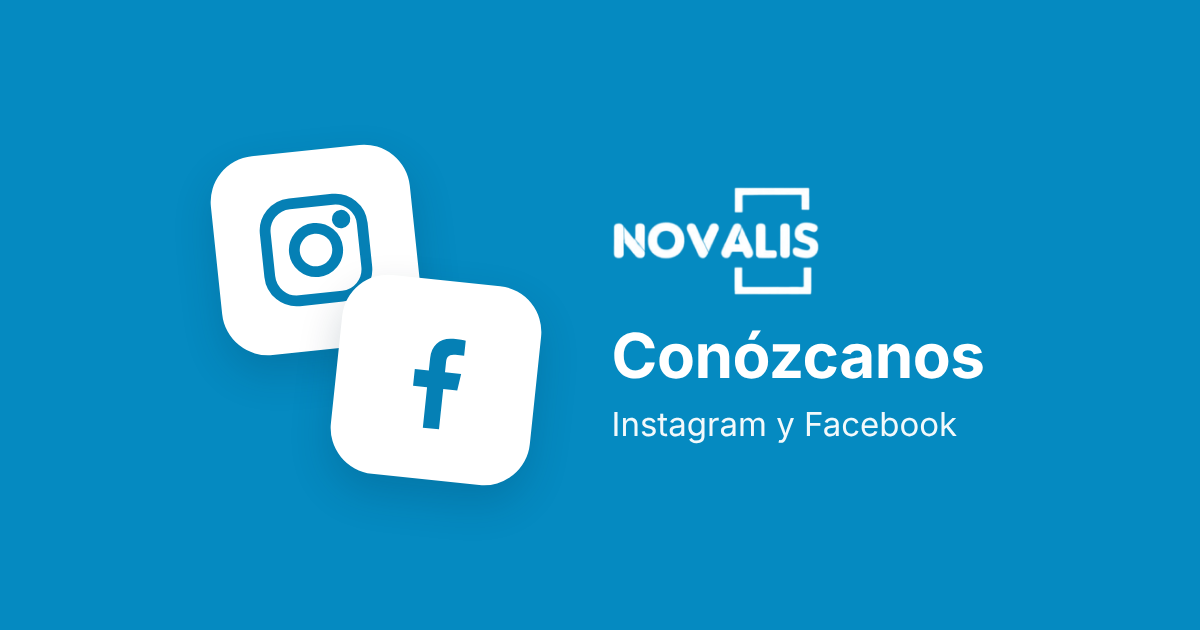
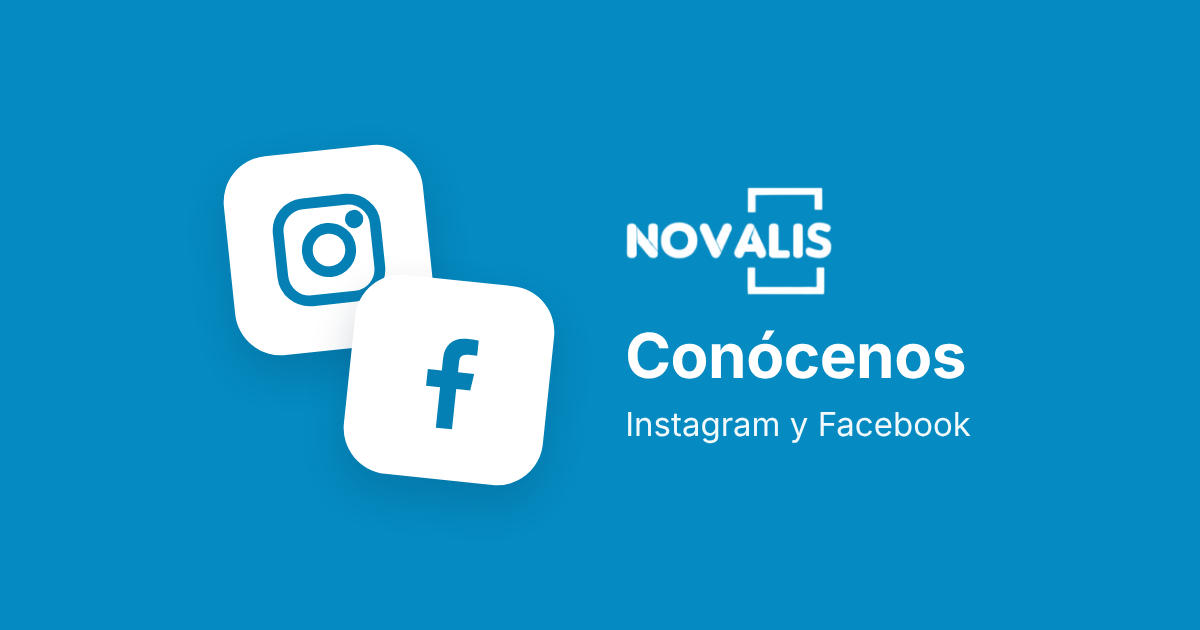
Tratar de tú al paciente en las plantillas, las páginas y las tarjetas
Claude-Session: https://claude.ai/code/session_01BkikTQCFHVfyVBujVap8CC

diff --git a/src/lib/demo.js b/src/lib/demo.js
@@ -28,10 +28,10 @@ export function datosDeEjemplo() {
       { id: id(201), paciente_id: id(6), fecha: new Date(Date.now() - 3 * 86400000).toISOString(), tipo: 'mensaje', titulo: 'Recordatorio de revisión', texto: 'Hola Javier, te escribimos de Clínica Novalis. Ya toca tu revisión semestral.', autor: 'Demostración' },
     ],
     plantillas: [
-      { id: id(311), orden: 1, titulo: 'Bienvenida a Novalis', uso: 'general', texto: '{nombre}, le damos la más cordial bienvenida a Clínica Novalis.\n\nEs un placer contar con su confianza. Nuestro equipo cuida cada detalle para ofrecerle una atención personalizada y una odontología de la máxima calidad.\n\nQuedamos a su disposición por este medio para cualquier consulta.\n\n*Clínica Novalis*' },
-      { id: id(312), orden: 2, titulo: 'Cómo llegar', uso: 'general', texto: '{nombre}, para facilitarle la llegada, le compartimos nuestra ubicación:\n\n📍 {enlace_maps}\n\nSerá un placer recibirle.\n\n*Clínica Novalis*' },
-      { id: id(313), orden: 3, titulo: 'Conócenos', uso: 'general', texto: '{nombre}, le invitamos a conocer Clínica Novalis a través de la experiencia de nuestros pacientes y del trabajo que realizamos cada día:\n\n✨ {enlace_conocenos}\n\n*Clínica Novalis*' },
-      { id: id(314), orden: 4, titulo: 'Tras la valoración', uso: 'valoracion', texto: '{nombre}, gracias por su visita.\n\nTal como le comentamos en la valoración, ponemos a su disposición sus fotografías intraorales y una selección de documentos sobre salud dental, preparados por nuestro equipo para acompañarle en su tratamiento:\n\n📄 {enlaces_documentos}\n\nEste enlace es personal y confidencial. Para cualquier duda, estaremos encantados de atenderle.\n\n*Clínica Novalis*' },
+      { id: id(311), orden: 1, titulo: 'Bienvenida a Novalis', uso: 'general', texto: '{nombre}, te damos la más cordial bienvenida a Clínica Novalis.\n\nEs un placer contar con tu confianza. Nuestro equipo cuida cada detalle para ofrecerte una atención personalizada y una odontología de la máxima calidad.\n\nQuedamos a tu disposición por este medio para cualquier consulta.\n\n*Clínica Novalis*' },
+      { id: id(312), orden: 2, titulo: 'Cómo llegar', uso: 'general', texto: '{nombre}, para facilitarte la llegada, te compartimos nuestra ubicación:\n\n📍 {enlace_maps}\n\nSerá un placer recibirte.\n\n*Clínica Novalis*' },
+      { id: id(313), orden: 3, titulo: 'Conócenos', uso: 'general', texto: '{nombre}, te invitamos a conocer Clínica Novalis a través de la experiencia de nuestros pacientes y del trabajo que realizamos cada día:\n\n✨ {enlace_conocenos}\n\n*Clínica Novalis*' },
+      { id: id(314), orden: 4, titulo: 'Tras la valoración', uso: 'valoracion', texto: '{nombre}, gracias por tu visita.\n\nTal como te comentamos en la valoración, ponemos a tu disposición tus fotografías intraorales y una selección de documentos sobre salud dental, preparados por nuestro equipo para acompañarte en tu tratamiento:\n\n📄 {enlaces_documentos}\n\nEste enlace es personal y confidencial. Para cualquier duda, estaremos encantados de atenderte.\n\n*Clínica Novalis*' },
       { id: id(301), titulo: 'Recordatorio de revisión', uso: 'revision', texto: 'Hola {nombre}, te escribimos de Clínica Novalis. Ya toca tu revisión semestral. ¿Te viene bien que te demos cita? Puedes responder a este mensaje o llamarnos. ¡Gracias!' },
       { id: id(302), titulo: 'Envío de documento', uso: 'pdf', texto: 'Hola {nombre}, te enviamos desde Clínica Novalis el documento «{documento}»: {enlace}' },
       { id: id(303), titulo: 'Indicaciones tras el tratamiento', uso: 'general', texto: 'Hola {nombre}, esperamos que te encuentres bien tras el tratamiento de hoy. Si tienes cualquier molestia o duda, escríbenos o llámanos. Clínica Novalis.' },

diff --git a/README.md b/README.md
@@ -63,7 +63,7 @@ Si cambia `supabase/esquema.sql`, vuelve a ejecutarlo entero en **SQL Editor** (
 | --- | --- |
 | `{nombre}` | Nombre de pila del paciente |
 | `{enlace_maps}` | Página «Cómo llegar a Clínica Novalis», que abre Google Maps |
-| `{enlace_conocenos}` | Página «Conozca Clínica Novalis», con los botones de Instagram y Facebook |
+| `{enlace_conocenos}` | Página «Conoce Clínica Novalis», con los botones de Instagram y Facebook |
 | `{enlace_instagram}`, `{enlace_facebook}` | Páginas que llevan directamente a cada red |
 | `{enlaces_documentos}` | Solo en «Tras la valoración»: enlace a la página personal del paciente |
 | `{documento}`, `{enlace}` | Solo en «Envío de documento»: título y enlace del PDF |
